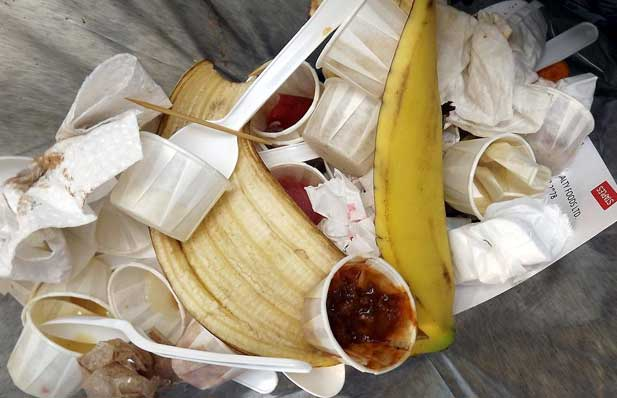
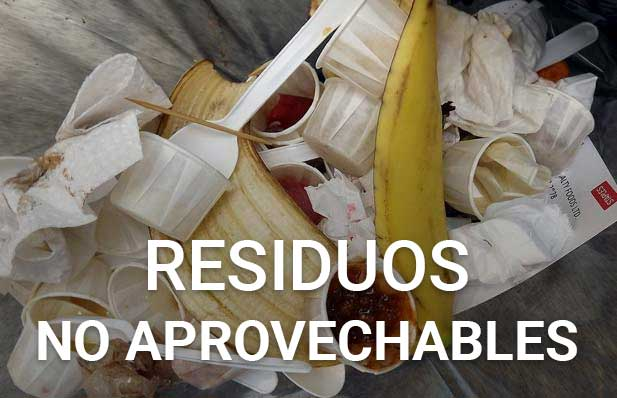
Eventos

diff --git a/index.html b/index.html
@@ -44,62 +44,48 @@
         <div class="">
             <div class="row p-4">
                 <div class="col-md-6 mb-4">
-                    <div id="carouselExampleCaptions" class="carousel slide" data-bs-ride="carousel">
-                        <div class="carousel-indicators">
-                            <button type="button" data-bs-target="#carouselExampleDark" data-bs-slide-to="0" class="active" aria-current="true" aria-label="Slide 1"></button>
-                            <button type="button" data-bs-target="#carouselExampleDark" data-bs-slide-to="1" aria-label="Slide 2"></button>
-                            <button type="button" data-bs-target="#carouselExampleDark" data-bs-slide-to="2" aria-label="Slide 3"></button>
-                        </div>
+                    <div id="carouselExampleControls" class="carousel slide" data-bs-ride="carousel">
                         <div class="carousel-inner">
-                            <div class="carousel-item active" data-bs-interval="5000">
-                                <img src="img/separacion-de-residuos.jpg" class="d-block w-100" alt="...">
-                                <div class="carousel-caption d-none d-md-block">
-                                    <h5 class="shadow">Materiales Reciclables</h5>
-                                </div>
-                            </div>
-                            <div class="carousel-item" data-bs-interval="5000">
-                                <img src="img/residuos-no-aprovechables.jpg" class="d-block w-100" alt="...">
-                                <div class="carousel-caption d-none d-md-block">
-                                    <h5 class="shadow">Residuos no Aprovechables</h5>
-                                </div>
-                            </div>
-                            <div class="carousel-item" data-bs-interval="5000">
-                                <img src="img/residuos-peligrosos.jpg" class="d-block w-100" alt="...">
-                                <div class="carousel-caption d-none d-md-block">
-                                    <h5 class="shadow">Residuos Peligrosos</h5>
-                                </div>
-                            </div>
+                          <div class="carousel-item active">
+                            <img src="img/separacion-de-residuos.jpg" class="d-block w-100" alt="Separación de residuos">
+                          </div>
+                          <div class="carousel-item">
+                            <img src="img/residuos-no-aprovechables.jpg" class="d-block w-100" alt="Residuos no aprovechables">
+                          </div>
+                          <div class="carousel-item">
+                            <img src="img/residuos-peligrosos.jpg" class="d-block w-100" alt="Residuos Peligrosos">
+                          </div>
                         </div>
-                        <button class="carousel-control-prev" type="button" data-bs-target="#carouselExampleDark" data-bs-slide="prev">
+                        <button class="carousel-control-prev" type="button" data-bs-target="#carouselExampleControls" data-bs-slide="prev">
                           <span class="carousel-control-prev-icon" aria-hidden="true"></span>
                           <span class="visually-hidden">Previous</span>
                         </button>
-                        <button class="carousel-control-next" type="button" data-bs-target="#carouselExampleDark" data-bs-slide="next">
+                        <button class="carousel-control-next" type="button" data-bs-target="#carouselExampleControls" data-bs-slide="next">
                           <span class="carousel-control-next-icon" aria-hidden="true"></span>
                           <span class="visually-hidden">Next</span>
                         </button>
-                    </div>
+                      </div>
                 </div>
                 <div id="noticias" class="col-md-6 pe-4">
                     <div class="row pb-3">
-                        <div class="col-md-4 text-center"><img width="100%" src="img/noticia.jpg" alt=""></div>
+                        <div class="col-md-4 text-center"><img width="100%" src="img/plastico-de-un-solo-uso.jpg" alt="Plástico de un solo uso"></div>
                         <div class="col-md-8 p-0">
-                            <h3 class="bg-primary ps-2">Noticia</h3>
-                            <p>consectetur adipisicing elit. Alias nihil sequi soluta eveniet velit iure perferendis nostrum deleniti. Fugiat iste iusto quam? Neque quod quo maxime id illo corporis soluta.</p>
+                            <h4>Plásticos de un solo uso en Colombia</h4>
+                            <p>Empaques, envases, bolsas, copitos de algodón y láminas para envolver o servir alimentos de consumo inmediato quedarán prohibidos en el país.</p>
                         </div>
                     </div>
                     <div class="row pb-3">
-                        <div class="col-md-4 text-center"><img width="100%" src="img/noticia.jpg" alt=""></div>
+                        <div class="col-md-4 text-center"><img width="100%" src="img/negocios-verdes.jpg" alt="Negocios verdes"></div>
                         <div class="col-md-8 p-0">
-                            <h3 class="bg-primary ps-2">Noticia</h3>
-                            <p>consectetur adipisicing elit. Alias nihil sequi soluta eveniet velit iure perferendis nostrum deleniti. Fugiat iste iusto quam? Neque quod quo maxime id illo corporis soluta.</p>
+                            <h4>Ya hay 4.000 negocios verdes</h4>
+                            <p>En el último año, se avalaron 930 nuevos negocios verdes; 400 de estos, los avaló el Minambiente, los otros 530 contaron con la verificación de autoridades ambientales.</p>
                         </div>
                     </div>
                     <div class="row pb-3">
-                        <div class="col-md-4 text-center"><img width="100%" src="img/noticia.jpg" alt=""></div>
+                        <div class="col-md-4 text-center"><img width="100%" src="img/reciclaje-en-colegios.jpg" alt=""></div>
                         <div class="col-md-8 p-0">
-                            <h3 class="bg-primary ps-2">Noticia</h3>
-                            <p>consectetur adipisicing elit. Alias nihil sequi soluta eveniet velit iure perferendis nostrum deleniti. Fugiat iste iusto quam? Neque quod quo maxime id illo corporis soluta.</p>
+                            <h4>Reciclaje enfocado en los colegios</h4>
+                            <p>Recicla Kids es un programa de la Fundación Recicla Latam que busca concientizar y educar a los niños y jóvenes sobre la importancia del reciclaje.</p>
                         </div>
                     </div>
                 </div>
@@ -111,40 +97,37 @@
         <h2 class="display-4 text-center">Eventos</h2>
         <div class="row ">
             <div class="col-md-4 ">
-                <h3 class="bg-primary text-center ">Evento</h3>
+                <h4 class="text-center pb-2">Bosque sonoro en Bogotá</h4>
                 <div class="row align-items-center">
                     <div class="col-4 ">
-                        <img width="100% " src=img/evento.jpg " alt=" ">
+                        <img width="100% " src="img/bosque-sonoro.jpg" alt="Bosque Sonoro">
                     </div>
                     <div class="col-8 ps-0 ">
-                        <p>Lorem ipsum, dolor sit amet consectetur adipisicing elit. Nesciunt dicta eius mollitia dignissimos</p>
-                        <p>Lorem ipsum, dolor sit amet consectetur adipisicing elit. Nulla, fugiat. Aspernatur.</p>
+                        <p>Este 5 de junio se conmemora el Día Mundial del Medio Ambiente, y en Colombia, sobre todo porque en 2020, el Instituto de Hidrología, Meteorología y Estudios Ambientales -Ideam- advirtió que el país había pedido más de 170 mil hectáreas de bosque.</p>
                     </div>
                     <p></p>
                 </div>
             </div>
             <div class="col-md-4 ">
-                <h3 class="bg-primary text-center ">Evento</h3>
+                <h4 class="text-center pb-2">Salón BAT</h4>
                 <div class="row align-items-center ">
                     <div class="col-4 ">
-                        <img width="100% " src=img/evento.jpg " alt=" ">
+                        <img width="100% " src="img/salon-bat.jpg" alt="Salón BAT">
                     </div>
                     <div class="col-8 ps-0">
-                        <p>Lorem ipsum, dolor sit amet consectetur adipisicing elit. Nesciunt dicta eius mollitia dignissimos</p>
-                        <p>Lorem ipsum, dolor sit amet consectetur adipisicing elit. Nulla, fugiat. Aspernatur.</p>
+                        <p>Se le rinde homenaje a Eduardo Butrón Hodwalker, ganador del primer premio del VI Salón BAT de Arte Popular por su el proceso de recuperación del rio Magdalena con la comunidad y la transformación del espacio público de Magangué.</p>
                     </div>
                     <p></p>
                 </div>
             </div>
             <div class="col-md-4 ">
-                <h3 class="bg-primary text-center ">Evento</h3>
+                <h4 class="text-center pb-2">Cumbre mundial de alta montaña</h4>
                 <div class="row align-items-center">
                     <div class="col-4 ">
-                        <img width="100% " src=img/evento.jpg " alt=" ">
+                        <img width="100% " src="img/cumbre.jpg " alt="Cumbre Mundial de Alta Montaña ">
                     </div>
                     <div class="col-8 ps-0 ">
-                        <p>Lorem ipsum, dolor sit amet consectetur adipisicing elit. Nesciunt dicta eius mollitia dignissimos</p>
-                        <p>Lorem ipsum, dolor sit amet consectetur adipisicing elit. Nulla, fugiat. Aspernatur.</p>
+                        <p>Durante tres días, expertos y organizaciones de todo el mundo, harán parte de esta Segunda Cumbre Mundial de Alta Montaña en Pereira , con el objetivo de conocer y evaluar qué está pasando con los ecosistemas.</p>
                     </div>
                     <p></p>
                 </div>
